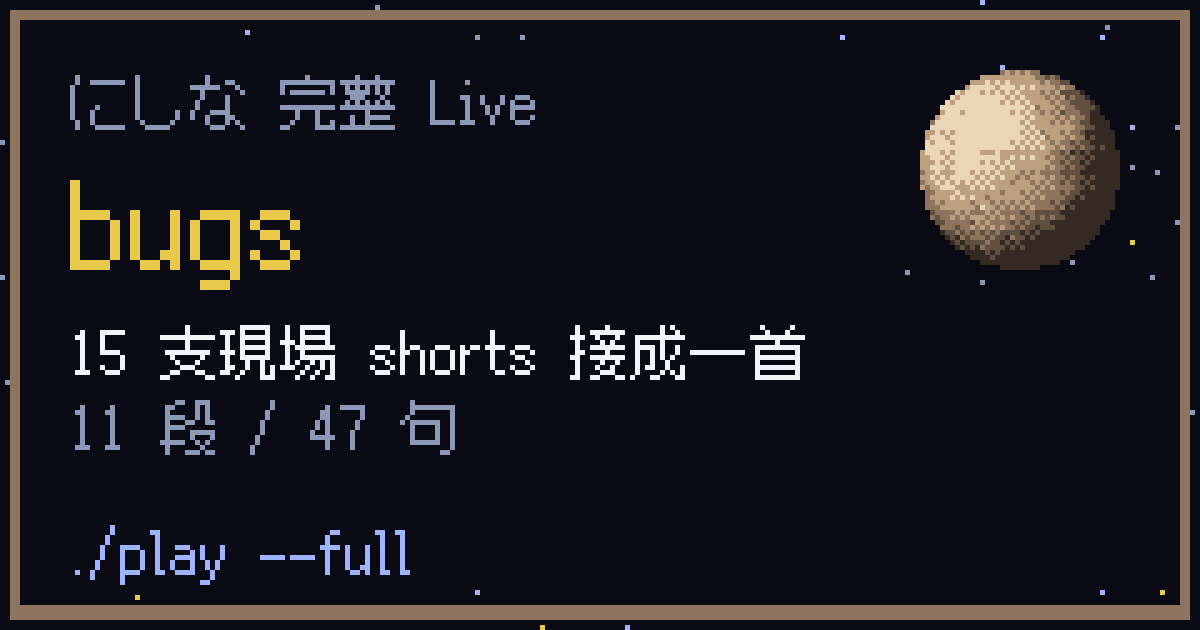
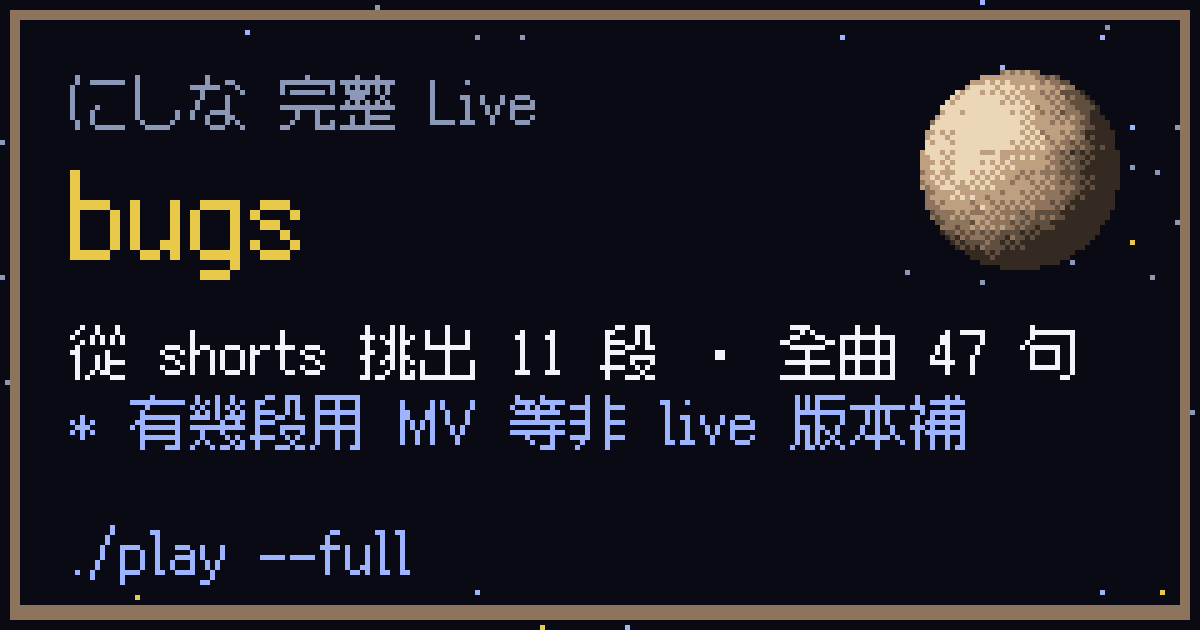
fix(og): 完整 Live 卡的場次不再以偏概全、拿掉每天會變的數字
- 場次抽成 scripts/og-show.mjs 的 parseShow(): 日期收 . / -、後面可以接 #shorts / Day2、場地取最後一個 @ 之後
- 每段 live 都是同一場 (場地 + 日期) 才寫「全部來自」, 不然寫「含 … 等」
- 文案改成「從 shorts 挑出 M 段 · 全曲 N 句」, 不放 shorts 總數 (full_live.json 每天更新, 圖不會跟著重畫)
- 有 MV 等非 live 補段的歌加一行註記
- 退回順序: live-full 卡 → 歌曲卡 → 預設圖
- 測試: 每個完整 Live 頁都檢查圖卡 (自己的或退回歌曲卡) 200 + 1200×630; 有 @ 的 live 標題都要抓得到場次

Changed region(s): [[0.0617, 0.5127, 0.8942, 0.7238], [0.0617, 0.3016, 0.2775, 0.4825]]

diff --git a/tests/full-live-og.spec.ts b/tests/full-live-og.spec.ts
@@ -1,29 +1,31 @@
 import { test, expect } from '@playwright/test';
-import { readFileSync } from 'node:fs';
+import { readFileSync, readdirSync } from 'node:fs';
+import { parseShow } from '../scripts/og-show.mjs';
 
-// 完整 Live 分享圖卡: 隨便挑兩首, og:image / twitter:image 指到自己那張, 而且真的是 1200×630 的 png
-const songs: string[] = readFileSync('dist/live/full/index.html', 'utf-8').match(/\/live\/full\/[^/"?#]+\//g)
-  ?.map((h) => h.split('/')[3]).filter((id, i, a) => id && a.indexOf(id) === i) ?? [];
-// 每個 worker 都會重新載入這個檔, 挑的歌要一樣 (不然 test 名對不上) — 用 CI run id / 當天日期當種子, 每次跑換一組
-let seed = Number(process.env.GITHUB_RUN_ID ?? new Date().toISOString().slice(0, 10).replace(/-/g, '')) >>> 0;
-const rnd = () => (seed = (seed * 1103515245 + 12345) >>> 0) / 4294967296;
-const pool = [...songs], pick: string[] = [];
-while (pick.length < 2 && pool.length) pick.push(pool.splice(Math.floor(rnd() * pool.length), 1)[0]);
-
-test('完整 Live 頁有資料可以挑', () => {
-  expect(songs.length).toBeGreaterThanOrEqual(2);
+// 完整 Live 分享圖卡: 每一頁的 og:image 要嘛是自己的 live-full 卡, 要嘛退回歌曲卡 (新上架還沒畫);
+// 不比對「png 清單 = 頁面清單」— full_live.json 每天自動更新, 圖不會跟著重畫
+test('每個完整 Live 頁的分享圖卡都在, 而且是 1200×630 png', async ({ request }) => {
+  const ids = readdirSync('dist/live/full', { withFileTypes: true }).filter((d) => d.isDirectory()).map((d) => d.name);
+  expect(ids.length).toBeGreaterThan(0);
+  for (const id of ids) {
+    const html = readFileSync(`dist/live/full/${id}/index.html`, 'utf-8');
+    const og = html.match(/<meta property="og:image" content="([^"]+)"/)?.[1];
+    const tw = html.match(/<meta name="twitter:image" content="([^"]+)"/)?.[1];
+    expect(og, id).toMatch(new RegExp(`/og/(live-full|song)/${id}\\.png$`));
+    expect(tw, id).toBe(og);
+    const res = await request.get(new URL(og!, 'http://x').pathname);
+    expect(res.status(), id).toBe(200);
+    const buf = await res.body();
+    expect(buf.subarray(1, 4).toString('ascii'), id).toBe('PNG');
+    expect([buf.readUInt32BE(16), buf.readUInt32BE(20)], id).toEqual([1200, 630]);
+  }
 });
 
-for (const [i, id] of pick.entries()) {
-  test(`完整 Live 分享圖卡 #${i + 1} (${id})`, async ({ page, request }) => {
-    await page.goto(`/live/full/${id}/`);
-    const og = await page.locator('meta[property="og:image"]').getAttribute('content');
-    expect(og).toContain(`/og/live-full/${id}.png`);
-    expect(await page.locator('meta[name="twitter:image"]').getAttribute('content')).toBe(og);
-    const res = await request.get(new URL(og!, page.url()).pathname);
-    expect(res.status()).toBe(200);
-    const buf = await res.body();
-    expect(buf.subarray(1, 4).toString('ascii')).toBe('PNG');
-    expect([buf.readUInt32BE(16), buf.readUInt32BE(20)]).toEqual([1200, 630]);
-  });
-}
+test('完整 Live 用到的 live shorts, 標題有 @ 的都抓得到場次', () => {
+  const songs = JSON.parse(readFileSync('src/data/full_live.json', 'utf-8')).songs as { shorts: { title: string; live: boolean }[] }[];
+  const titles = songs.flatMap((s) => s.shorts).filter((s) => s.live && s.title.includes('@')).map((s) => s.title);
+  for (const title of titles) expect(parseShow(title), title).not.toBeNull();
+  expect(parseShow('hatsu @Zepp Tokyo 2021.6.25')).toEqual({ name: 'hatsu', venue: 'Zepp Tokyo', date: '2021.6.25' });
+  expect(parseShow('MUSICK @foo @東京国際フォーラム 2025-04-12 Day2 #shorts')).toEqual({ name: 'MUSICK', venue: '東京国際フォーラム', date: '2025.4.12' });
+  expect(parseShow('2026.4.4 at Zepp Namba')).toBeNull();
+});
